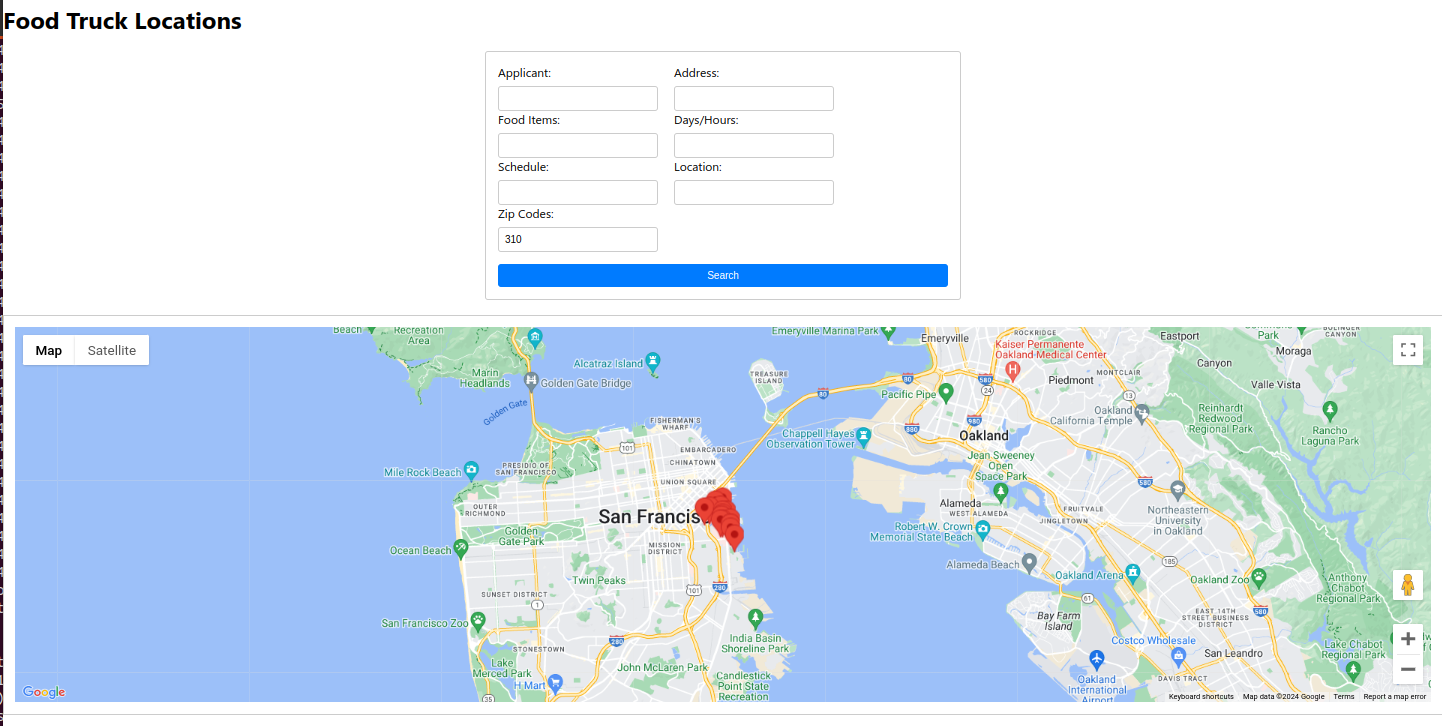
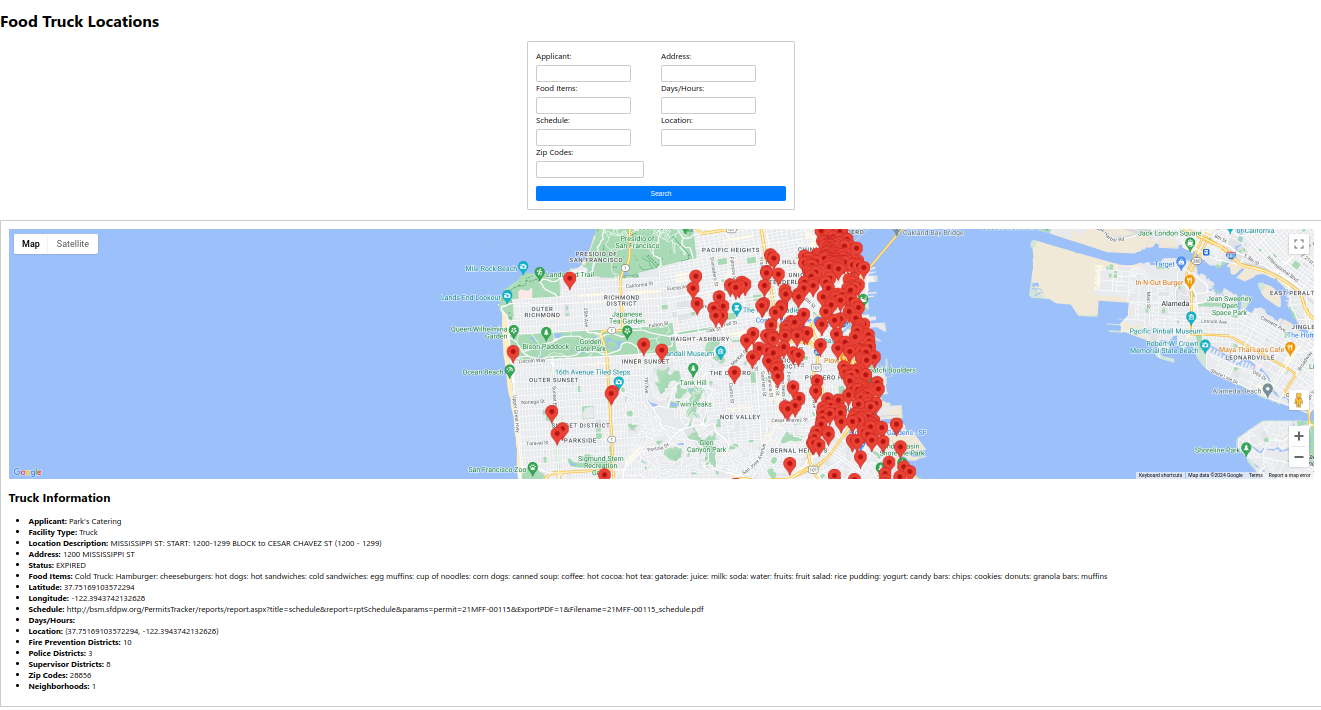
Added truck info panel

diff --git a/src/SearchForm.js b/src/SearchForm.js
@@ -24,48 +24,46 @@ const SearchForm = ({ onSearch }) => {
   };
 
   return (
-    <div className="search-panel">
-      <form onSubmit={handleSubmit}>
-        <div className="form-group">
-          <div className="form-column">
-            <label htmlFor="applicant">Applicant:</label>
-            <input type="text" id="applicant" name="applicant" className="form-control" value={searchCriteria.applicant} onChange={handleChange} />
-          </div>
-          <div className="form-column">
-            <label htmlFor="address">Address:</label>
-            <input type="text" id="address" name="address" className="form-control" value={searchCriteria.address} onChange={handleChange} />
-          </div>
+    <form onSubmit={handleSubmit}>
+      <div className="form-group">
+        <div className="form-column">
+          <label htmlFor="applicant">Applicant:</label>
+          <input type="text" id="applicant" name="applicant" className="form-control" value={searchCriteria.applicant} onChange={handleChange} />
         </div>
-        <div className="form-group">
-          <div className="form-column">
-            <label htmlFor="food_items">Food Items:</label>
-            <input type="text" id="food_items" name="food_items" className="form-control" value={searchCriteria.food_items} onChange={handleChange} />
-          </div>
-          <div className="form-column">
-            <label htmlFor="dayshours">Days/Hours:</label>
-            <input type="text" id="dayshours" name="dayshours" className="form-control" value={searchCriteria.dayshours} onChange={handleChange} />
-          </div>
+        <div className="form-column">
+          <label htmlFor="address">Address:</label>
+          <input type="text" id="address" name="address" className="form-control" value={searchCriteria.address} onChange={handleChange} />
         </div>
-        <div className="form-group">
-          <div className="form-column">
-            <label htmlFor="schedule">Schedule:</label>
-            <input type="text" id="schedule" name="schedule" className="form-control" value={searchCriteria.schedule} onChange={handleChange} />
-          </div>
-          <div className="form-column">
-            <label htmlFor="location">Location:</label>
-            <input type="text" id="location" name="location" className="form-control" value={searchCriteria.location} onChange={handleChange} />
-          </div>
+      </div>
+      <div className="form-group">
+        <div className="form-column">
+          <label htmlFor="food_items">Food Items:</label>
+          <input type="text" id="food_items" name="food_items" className="form-control" value={searchCriteria.food_items} onChange={handleChange} />
         </div>
-        <div className="form-group">
-          <div className="form-column">
-            <label htmlFor="zip_codes">Zip Codes:</label>
-            <input type="text" id="zip_codes" name="zip_codes" className="form-control" value={searchCriteria.zip_codes} onChange={handleChange} />
-          </div>
+        <div className="form-column">
+          <label htmlFor="dayshours">Days/Hours:</label>
+          <input type="text" id="dayshours" name="dayshours" className="form-control" value={searchCriteria.dayshours} onChange={handleChange} />
         </div>
-        <button type="submit" className="btn btn-sm submit-button">Search</button>
-      </form>
-    </div>
-  );
+      </div>
+      <div className="form-group">
+        <div className="form-column">
+          <label htmlFor="schedule">Schedule:</label>
+          <input type="text" id="schedule" name="schedule" className="form-control" value={searchCriteria.schedule} onChange={handleChange} />
+        </div>
+        <div className="form-column">
+          <label htmlFor="location">Location:</label>
+          <input type="text" id="location" name="location" className="form-control" value={searchCriteria.location} onChange={handleChange} />
+        </div>
+      </div>
+      <div className="form-group">
+        <div className="form-column">
+          <label htmlFor="zip_codes">Zip Codes:</label>
+          <input type="text" id="zip_codes" name="zip_codes" className="form-control" value={searchCriteria.zip_codes} onChange={handleChange} />
+        </div>
+      </div>
+      <button type="submit" className="btn btn-sm submit-button">Search</button>
+    </form>
+);
 };
 
 export default SearchForm;

diff --git a/src/TruckInfoPanel.js b/src/TruckInfoPanel.js
@@ -1,0 +1,37 @@
+// clickedCoordinatePanel.js
+import React from 'react';
+
+const clickedCoordinatePanel = ({ clickedCoordinate }) => {
+    if (!clickedCoordinate) {
+        return <div>No coordinate data available</div>;
+    }
+
+    return (
+    <div className="truck-info-wrapper">
+        <div className="truck-info-panel">
+        <h2>Truck Information</h2>
+        <ul>
+            <li><strong>ID:</strong> {clickedCoordinate.id}</li>
+            <li><strong>Applicant:</strong> {clickedCoordinate.applicant}</li>
+            <li><strong>Facility Type:</strong> {clickedCoordinate.facility_type}</li>
+            <li><strong>Location Description:</strong> {clickedCoordinate.location_description}</li>
+            <li><strong>Address:</strong> {clickedCoordinate.address}</li>
+            <li><strong>Status:</strong> {clickedCoordinate.status}</li>
+            <li><strong>Food Items:</strong> {clickedCoordinate.food_items}</li>
+            <li><strong>Latitude:</strong> {clickedCoordinate.latitude}</li>
+            <li><strong>Longitude:</strong> {clickedCoordinate.longitude}</li>
+            <li><strong>Schedule:</strong> {clickedCoordinate.schedule}</li>
+            <li><strong>Days/Hours:</strong> {clickedCoordinate.dayshours}</li>
+            <li><strong>Location:</strong> {clickedCoordinate.location}</li>
+            <li><strong>Fire Prevention Districts:</strong> {clickedCoordinate.fire_prevention_districts}</li>
+            <li><strong>Police Districts:</strong> {clickedCoordinate.police_districts}</li>
+            <li><strong>Supervisor Districts:</strong> {clickedCoordinate.supervisor_districts}</li>
+            <li><strong>Zip Codes:</strong> {clickedCoordinate.zip_codes}</li>
+            <li><strong>Neighborhoods:</strong> {clickedCoordinate.neighborhoods}</li>
+        </ul>
+        </div>
+    </div>
+  );
+};
+
+export default clickedCoordinatePanel;

diff --git a/src/MapContainer.js b/src/MapContainer.js
@@ -1,28 +1,35 @@
 // MapContainer.js
-import React from "react";
+import React, { useState } from "react";
 import { GoogleMap, MarkerF, LoadScript } from '@react-google-maps/api';
-import './MapContainer.css'; // Import the CSS file
+import './MapContainer.css';
+import TruckInfoPanel from './TruckInfoPanel';
 
 
 const MapContainer = ({ coordinates }) => {
   const apiKey = "PUT_YOUR_API_KEY_HERE";
+  const [clickedCoordinate, setClickedCoordinate] = useState(null);
+
+  const handleMarkerClick = (coord) => {
+    setClickedCoordinate(coord); // Update state with clicked coordinate
+  };
 
   const mapOptions = {
     zoom: 12,
     center: coordinates[0], // Center map around the first coordinate
   };
   return (
-    <div className="map-container"> {/* Apply the map-container class */}
-      {
-          <LoadScript googleMapsApiKey={apiKey}>
-            <GoogleMap mapContainerStyle={{ width: '100%', height: '500px' }} zoom={mapOptions.zoom} center={mapOptions.center}>
-              {coordinates.map((coordinate, index) => (
-                <MarkerF key={index} position={coordinate}/>
-              ))}
-            </GoogleMap>
-          </LoadScript>
-      }
-    </div>
+    <LoadScript googleMapsApiKey={apiKey}>
+      <GoogleMap mapContainerStyle={{ width: '100%', height: '500px' }} zoom={mapOptions.zoom} center={mapOptions.center}>
+        {coordinates.map((coordinate, index) => (
+          <MarkerF
+            key={index}
+            position={coordinate}
+            onClick={() => handleMarkerClick(coordinate)} // Attach click event listener
+          />
+        ))}
+      </GoogleMap>
+      {clickedCoordinate && <TruckInfoPanel clickedCoordinate={clickedCoordinate} />}
+    </LoadScript>
   );
 };
 

diff --git a/src/App.css b/src/App.css
@@ -1,55 +1,9 @@
-@import url('https://fonts.googleapis.com/css2?family=Roboto:wght@400;700&display=swap');
-
-.App {
-  text-align: center;
-}
-
-.App-logo {
-  height: 40vmin;
-  pointer-events: none;
-}
-
-body {
-  font-family: 'Roboto', sans-serif; /* Set Roboto as the default font */
-}
-
-.page-title {
-  font-size: 36px;
-  font-weight: bold;
-  color: #333;
-  margin-bottom: 20px;
-  text-align: center; /* Center the text horizontally */
-  display: flex; /* Use flexbox */
-  justify-content: center; /* Center the content horizontally */
-  align-items: center; /* Center the content vertically */
-}
-
-@media (prefers-reduced-motion: no-preference) {
-  .App-logo {
-    animation: App-logo-spin infinite 20s linear;
-  }
-}
-
-.App-header {
-  background-color: #282c34;
-  min-height: 100vh;
+/* styles.css */
+.app-container {
   display: flex;
   flex-direction: column;
-  align-items: center;
-  justify-content: center;
-  font-size: calc(10px + 2vmin);
-  color: white;
 }
 
-.App-link {
-  color: #61dafb;
-}
-
-@keyframes App-logo-spin {
-  from {
-    transform: rotate(0deg);
-  }
-  to {
-    transform: rotate(360deg);
-  }
+.map-container {
+  flex: 1;
 }

diff --git a/src/App.js b/src/App.js
@@ -21,13 +21,11 @@ const fetchCoordinates = async (criteria) => {
 const App = () => {
   const [coordinates, setCoordinates] = useState([]);
   const [searchCriteria, setSearchCriteria] = useState({});
-  
+
   const handleSearch = (criteria) => {
     const filteredCriteria = Object.fromEntries(
       Object.entries(criteria).filter(([key, value]) => value !== '')
     );
-    console.log(JSON.stringify(filteredCriteria));
-
     setSearchCriteria(filteredCriteria);
 
     fetchCoordinates(filteredCriteria)
@@ -50,10 +48,14 @@ const App = () => {
   }, [searchCriteria]);
 
   return (
-    <div className="page-container"> {/* Add the page-container class */}
-      <h1 className="page-title">Food Truck Locations</h1>
-      <SearchForm onSearch={handleSearch} />
-      <MapContainer coordinates={coordinates} />
+    <div className="app-container">
+      <h1 className="app-title">Food Truck Locations</h1>
+      <div className="search-panel">
+        <SearchForm onSearch={handleSearch} />
+      </div>
+      <div className="map-container">
+        <MapContainer coordinates={coordinates} />
+      </div>
     </div>
   );
 };

diff --git a/src/SearchForm.css b/src/SearchForm.css
@@ -1,11 +1,10 @@
 .search-panel {
-    max-width: 800px;
+    max-width: 500px;
     margin: 0 auto;
     border: 1px solid #ccc;
     border-radius: 4px;
     padding: 1rem;
     display: flex;
-    flex-direction: column;
     margin-bottom: 20px; /* Add margin to the bottom of the form */
   }
   
@@ -30,7 +29,7 @@
   }
   
   .btn {
-    width: 20%;
+    width: 100%;
     padding: 0.5rem 1rem;
     background-color: #007bff;
     color: #fff;

diff --git a/src/TruckInfoPanel.css b/src/TruckInfoPanel.css
@@ -1,0 +1,19 @@
+/* TruckInfoPanel.css */
+.truck-info-wrapper {
+    border: 10px solid #dee2e6;
+    border-radius: 2px;
+    padding: 10px;
+  }
+  
+  .truck-info-panel {
+    padding: 20px;
+  }
+  
+  .truck-info-label {
+    font-weight: bold;
+  }
+  
+  .truck-info-value {
+    margin-bottom: 10px;
+  }
+  

diff --git a/README.md b/README.md
@@ -71,4 +71,6 @@ This section has moved here: [https://facebook.github.io/create-react-app/docs/t
 
 ### Example map
 
+Created a map of food trucks. You can narrow the number of markers with the search form. The markers are clickable so information about each clicked truck can be displayed below the map.
+
 ![Truck Map](./truck-map.png)
